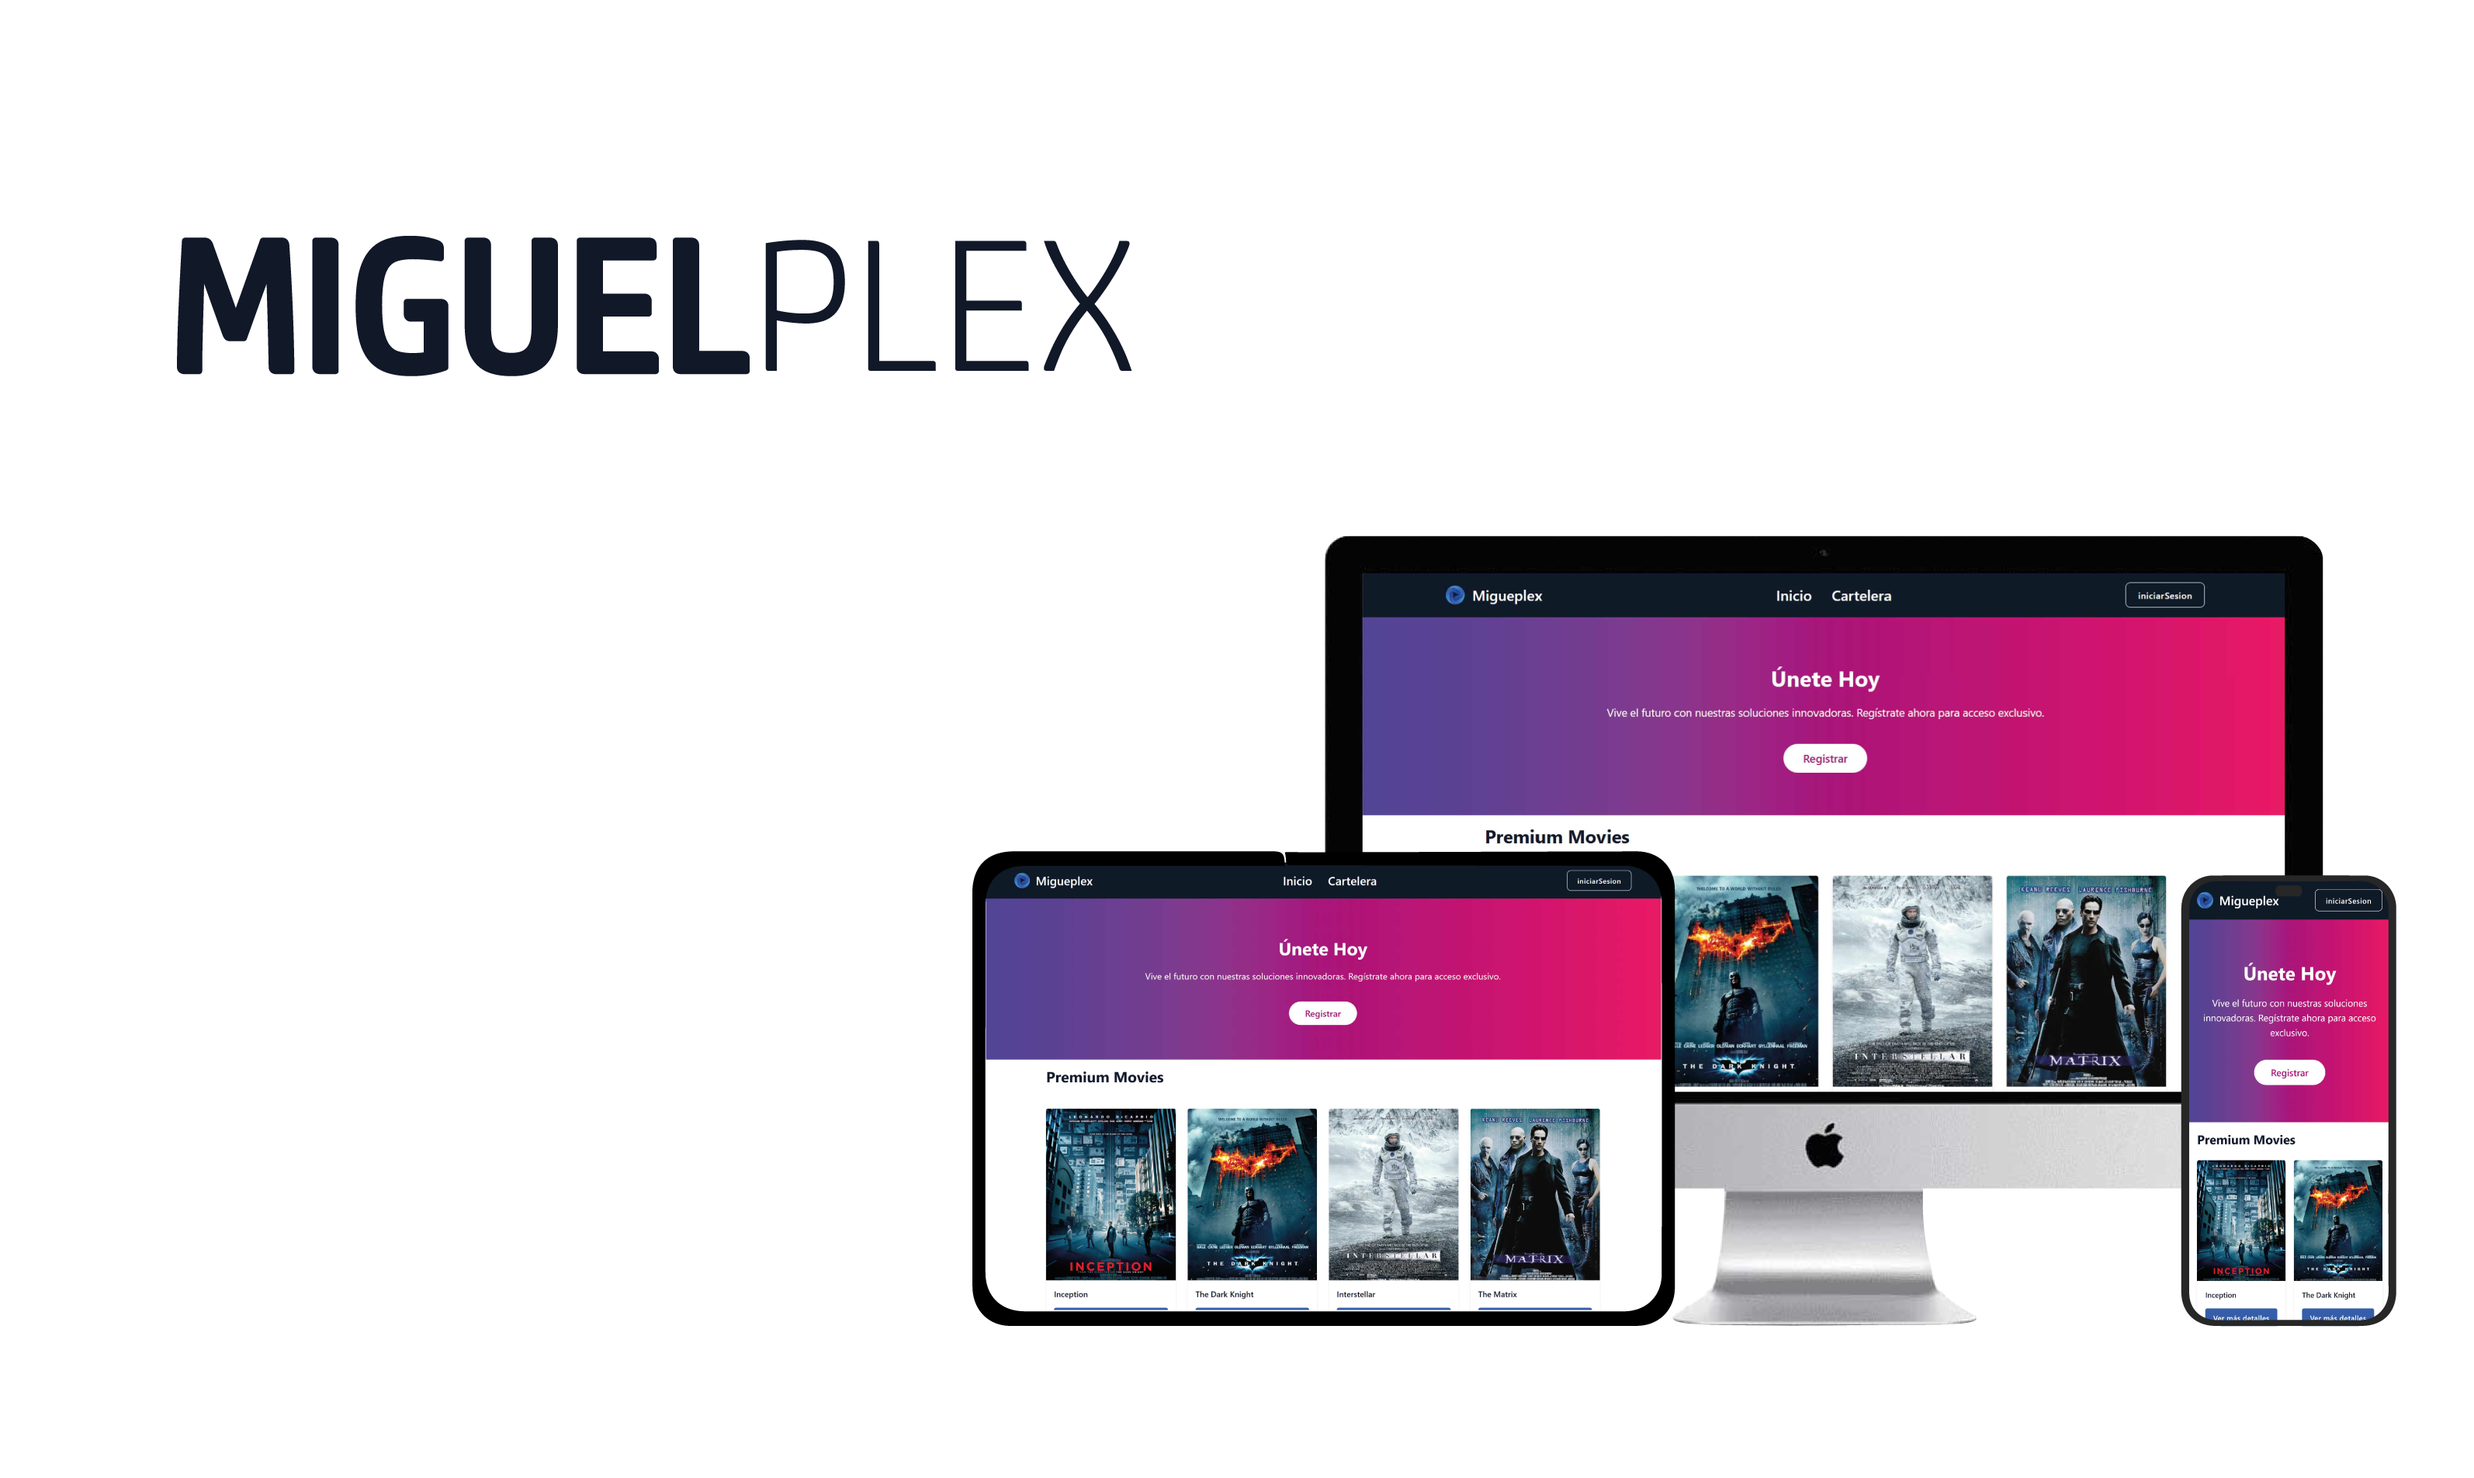
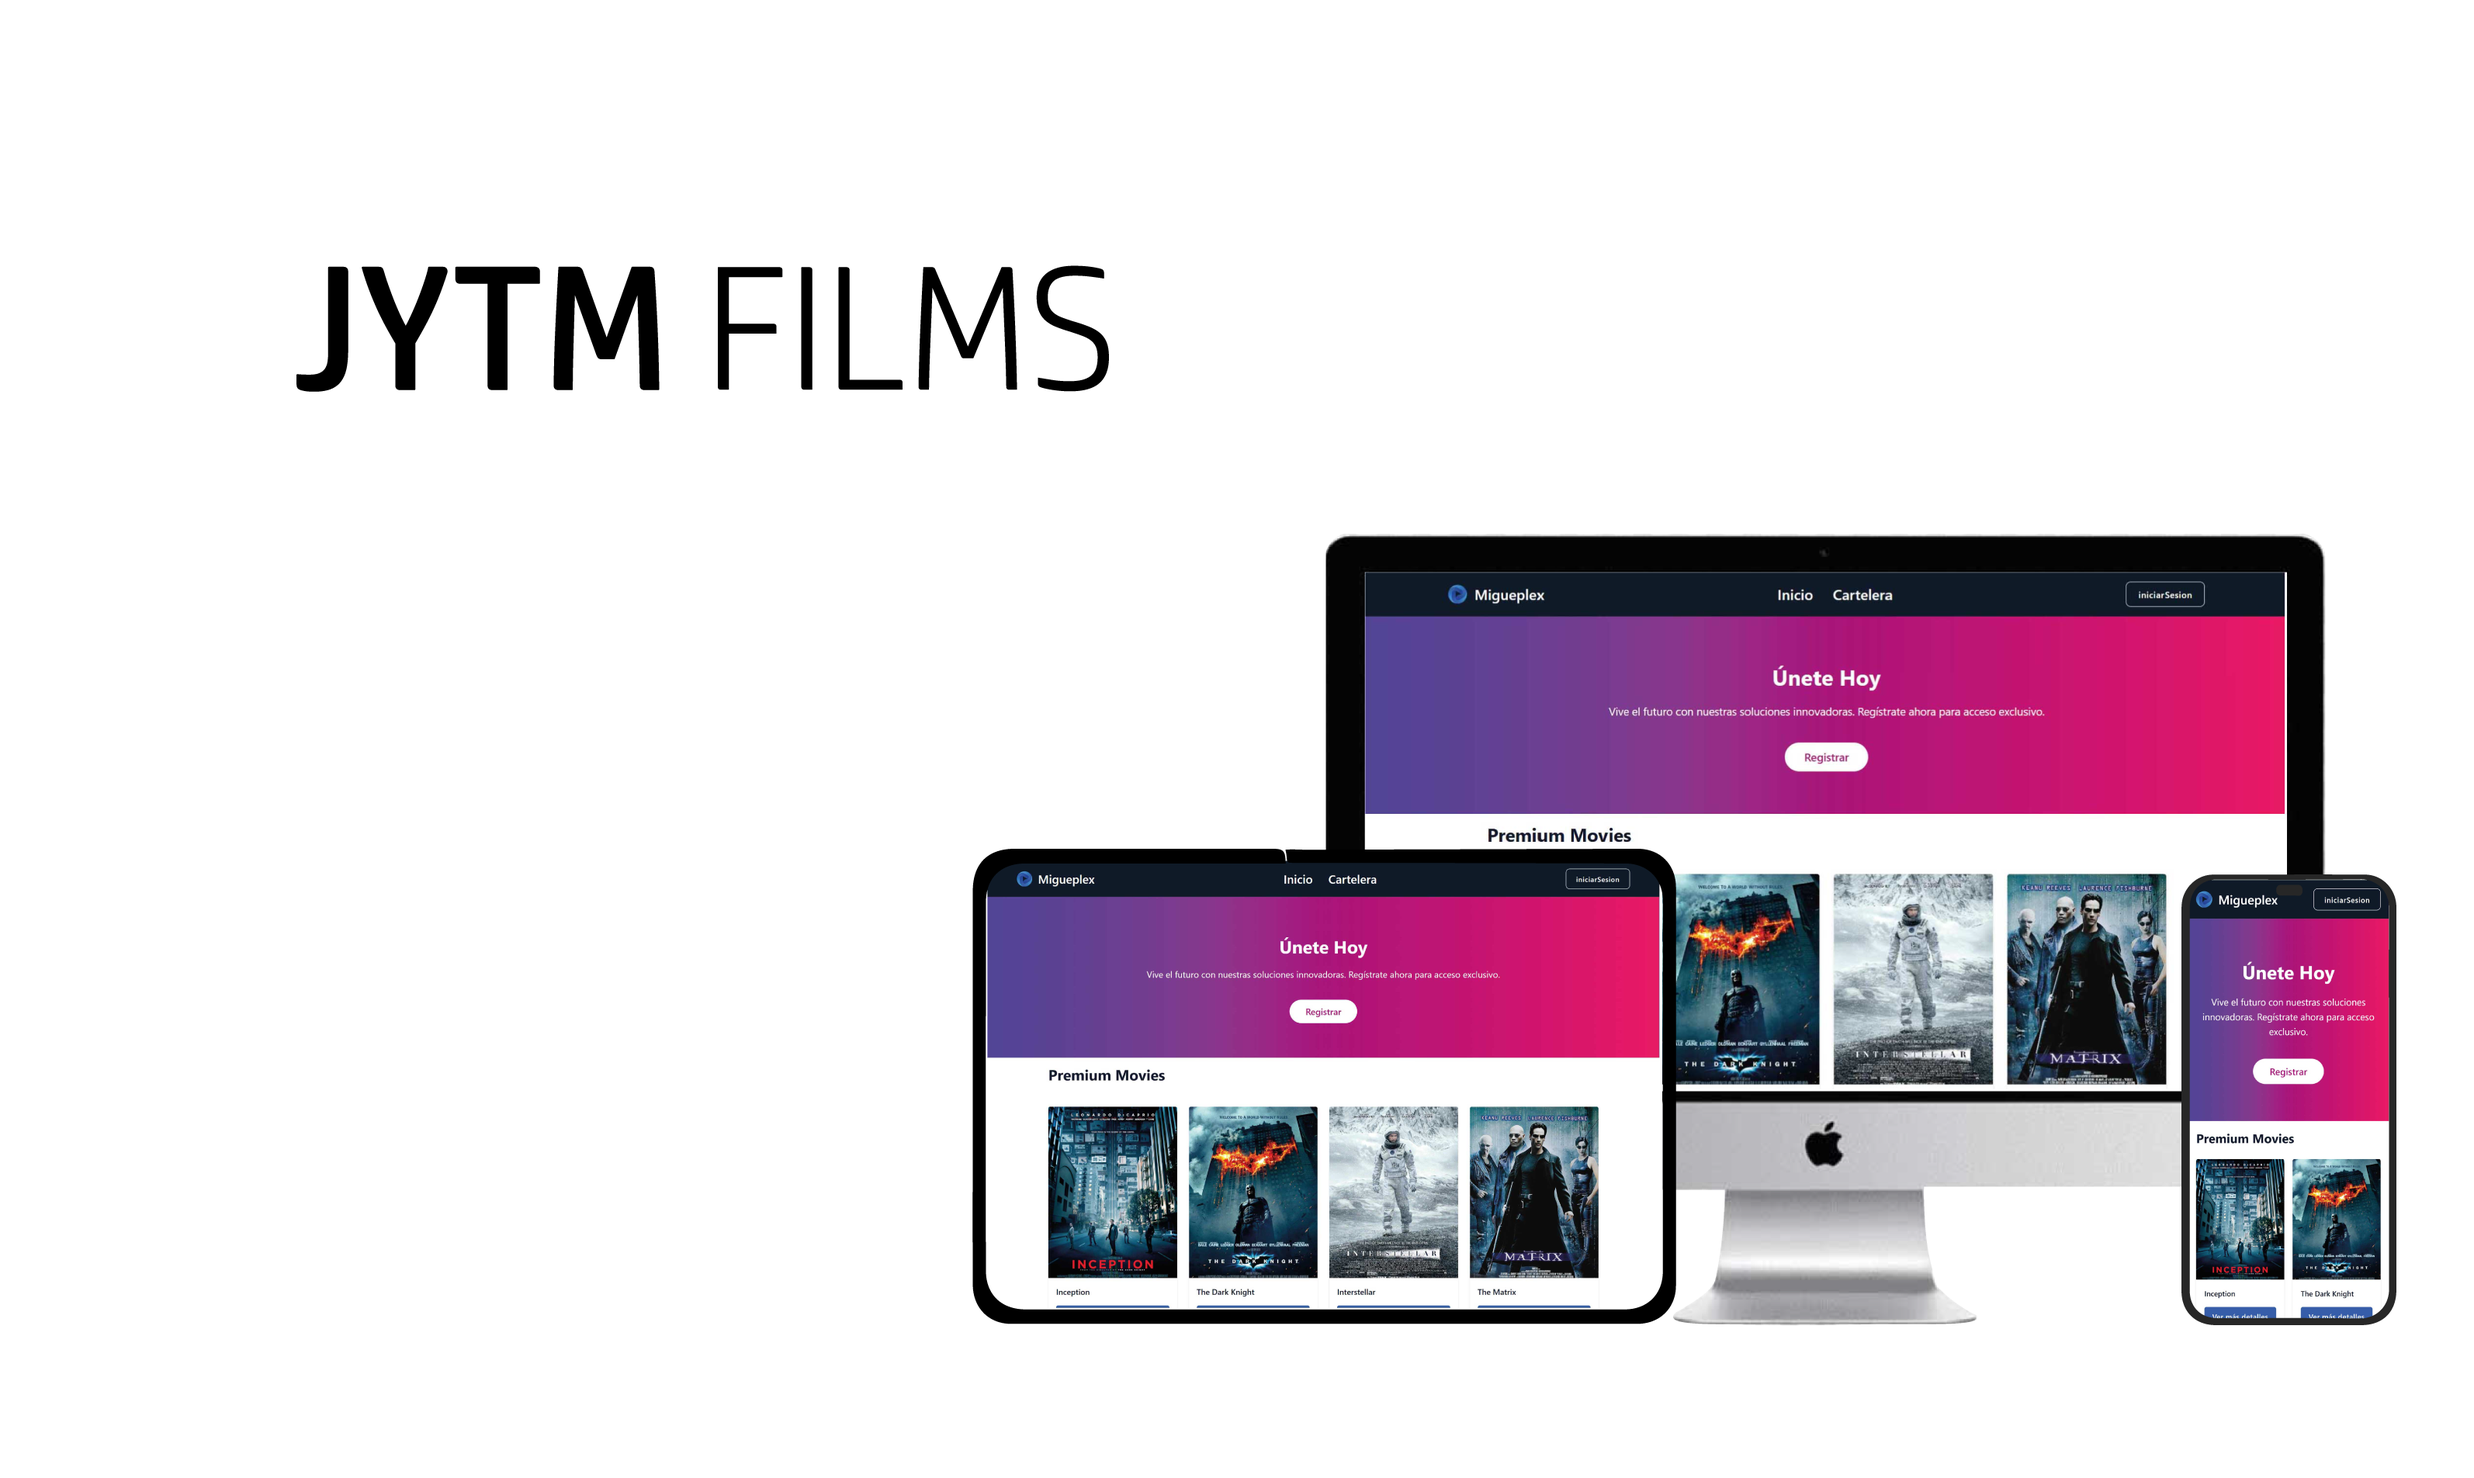
data intento

diff --git a/src/app/component/public/cartelera/cartelera.component.html b/src/app/component/public/cartelera/cartelera.component.html
@@ -1,5 +1,89 @@
 <div class="p-4 mx-auto lg:max-w-6xl md:max-w-4xl">
-    <h2 class="text-2xl sm:text-3xl font-bold text-slate-900 mb-6 sm:mb-12">Premium Movies</h2>
     
+    <h2 class="text-2xl sm:text-3xl font-bold text-slate-900 mb-6 sm:mb-12">Premium Movies</h2>
+    <div class="grid grid-cols-2 sm:grid-cols-3 lg:grid-cols-4 gap-4 sm:gap-6 ">
+      <div class="bg-white flex flex-col rounded overflow-hidden shadow-md cursor-pointer hover:scale-[1.01] transition-all">
+        <div class="w-full">
+          <img routerLink="/content/detalles" src="https://m.media-amazon.com/images/M/MV5BMjAxMzY3NjcxNF5BMl5BanBnXkFtZTcwNTI5OTM0Mw@@._V1_FMjpg_UX1000_.jpg" alt="Movie 1"
+            class="w-full object-cover object-top aspect-[230/307]" />
+        </div>
+        <div class="p-4 flex-1 flex flex-col">
+          <div class="flex-1">
+            <h5 class="text-sm sm:text-base font-semibold text-slate-900 line-clamp-2">Inception</h5>
+          </div>
+      </div>
+    </div >
+      <div class="bg-white flex flex-col rounded overflow-hidden shadow-md cursor-pointer hover:scale-[1.01] transition-all ">
+        <div class="w-full">
+          <img routerLink="/content/detalles" src="https://m.media-amazon.com/images/M/MV5BMTMxNTMwODM0NF5BMl5BanBnXkFtZTcwODAyMTk2Mw@@._V1_FMjpg_UX1000_.jpg" alt="Movie 2"
+            class="w-full object-cover object-top aspect-[230/307]" />
+        </div>
+        <div class="p-4 flex-1 flex flex-col">
+          <div class="flex-1">
+            <h5 class="text-sm sm:text-base font-semibold text-slate-900 line-clamp-2">The Dark Knight</h5>
+          </div>
+          </div>
+      </div>
+  
+      <div class="bg-white flex flex-col rounded overflow-hidden shadow-md cursor-pointer hover:scale-[1.01] transition-all">
+        <div class="w-full">
+          <img routerLink="/content/detalles" src="https://m.media-amazon.com/images/M/MV5BYzdjMDAxZGItMjI2My00ODA1LTlkNzItOWFjMDU5ZDJlYWY3XkEyXkFqcGc@._V1_FMjpg_UX1000_.jpg" alt="Movie 3"
+            class="w-full object-cover object-top aspect-[230/307]" />
+        </div>
+        <div class="p-4 flex-1 flex flex-col">
+          <div class="flex-1">
+            <h5 class="text-sm sm:text-base font-semibold text-slate-900 line-clamp-2">Interstellar</h5>
+          </div>
+          </div>
+      </div>
+  
+      <div class="bg-white flex flex-col rounded overflow-hidden shadow-md cursor-pointer hover:scale-[1.01] transition-all">
+        <div class="w-full">
+          <img routerLink="/content/detalles" src="https://m.media-amazon.com/images/M/MV5BN2NmN2VhMTQtMDNiOS00NDlhLTliMjgtODE2ZTY0ODQyNDRhXkEyXkFqcGc@._V1_FMjpg_UX1000_.jpg" alt="Movie 4"
+            class="w-full object-cover object-top aspect-[230/307]" />
+        </div>
+        <div class="p-4 flex-1 flex flex-col">
+          <div class="flex-1">
+            <h5 class="text-sm sm:text-base font-semibold text-slate-900 line-clamp-2">The Matrix</h5>
+          </div>
+         </div>
+      </div>
+  
+      <div class="bg-white flex flex-col rounded overflow-hidden shadow-md cursor-pointer hover:scale-[1.01] transition-all">
+        <div class="w-full">
+          <img routerLink="/content/detalles" src="https://m.media-amazon.com/images/M/MV5BNGEwYjgwOGQtYjg5ZS00Njc1LTk2ZGEtM2QwZWQ2NjdhZTE5XkEyXkFqcGc@._V1_FMjpg_UX1000_.jpg" alt="Movie 5"
+            class="w-full object-cover object-top aspect-[230/307]" />
+        </div>
+        <div class="p-4 flex-1 flex flex-col">
+          <div class="flex-1">
+            <h5 class="text-sm sm:text-base font-semibold text-slate-900 line-clamp-2">The Godfather</h5>
+          </div>
+          </div>
+      </div>
+  
+      <div class="bg-white flex flex-col rounded overflow-hidden shadow-md cursor-pointer hover:scale-[1.01] transition-all">
+        <div class="w-full">
+          <img routerLink="/content/detalles" src="https://m.media-amazon.com/images/M/MV5BOTgyOGQ1NDItNGU3Ny00MjU3LTg2YWEtNmEyYjBiMjI1Y2M5XkEyXkFqcGc@._V1_.jpg" alt="Movie 6"
+            class="w-full object-cover object-top aspect-[230/307]" />
+        </div>
+        <div class="p-4 flex-1 flex flex-col">
+          <div class="flex-1">
+            <h5 class="text-sm sm:text-base font-semibold text-slate-900 line-clamp-2">Fight Club</h5>
+          </div>
+           </div>
+      </div>
+  
+      <div class="bg-white flex flex-col rounded overflow-hidden shadow-md cursor-pointer hover:scale-[1.01] transition-all">
+        <div class="w-full">
+          <img routerLink="/content/detalles" src="https://m.media-amazon.com/images/M/MV5BY2IzNzMxZjctZjUxZi00YzAxLTk3ZjMtODFjODdhMDU5NDM1XkEyXkFqcGc@._V1_.jpg" alt="Movie 7"
+            class="w-full object-cover object-top aspect-[230/307]" />
+        </div>
+        <div class="p-4 flex-1 flex flex-col">
+          <div class="flex-1">
+            <h5 class="text-sm sm:text-base font-semibold text-slate-900 line-clamp-2">Pulp Fiction</h5>
+          </div>
+          </div>
+      </div>
+    </div>
   </div>
 ```  

diff --git a/src/app/component/public/home/home.component.html b/src/app/component/public/home/home.component.html
@@ -2,7 +2,7 @@
 
 <div class="bg-gradient-to-b from-blue-900 via-blue-800 to-blue-500 px-6 sm:py-20 py-10">
   <div class="max-w-screen-xl mx-auto text-center text-white">
-    <h1 class="text-5xl max-sm:text-3xl font-bold leading-tight mb-6">Bienvenido a Nuestro Servicio Migueplex</h1>
+    <h1 class="text-5xl max-sm:text-3xl font-bold leading-tight mb-6">Bienvenido a Nuestro Servicio JYTM Films</h1>
     <p class="text-lg mb-12">Experimenta la excelencia como nunca antes con nuestros productos y servicios exclusivos.</p>
     <a routerLink="/content/media" type="button" class="bg-blue-600 text-white text-lg font-medium tracking-wide px-8 py-2.5 rounded-full transition duration-300 ease-in-out shadow-lg hover:shadow-xl">Ver Cartelera</a>
   </div>

diff --git a/src/app/component/public/media/media.component.html b/src/app/component/public/media/media.component.html
@@ -1,5 +1,17 @@
 <app-head></app-head>
-
+<div class="bg-gradient-to-r from-blue-700 to-[#B06AB3] px-6 py-12">
+    <div class="container mx-auto flex flex-col justify-center items-center text-center">
+      <h2 class="text-white sm:text-4xl text-3xl font-bold mb-6">Descubre Nuestros Estrenos</h2>
+      <p class="text-white text-base text-center mb-12">
+        ¡Compra ahora y disfruta de descuentos exclusivos!
+      </p>
+  
+      <button type="button" routerLink="/auth/register" class="bg-white text-[15px] text-blue-600 font-semibold py-3 px-6 rounded-lg hover:bg-slate-100">
+        Registrarse
+      </button>
+    </div>
+  </div>
+  
 <app-cartelera></app-cartelera>
 <app-descuento></app-descuento>
 <app-footer></app-footer>

diff --git a/src/environments/environment.development.ts b/src/environments/environment.development.ts
@@ -1,5 +1,5 @@
 export const environment = {
     production: false,
-    SUPABASE_URL:'https://wmbfbeoyofzggwpiphvz.supabase.co',
-    SUPABASE_KEY:'eyJhbGciOiJIUzI1NiIsInR5cCI6IkpXVCJ9.eyJpc3MiOiJzdXBhYmFzZSIsInJlZiI6IndtYmZiZW95b2Z6Z2d3cGlwaHZ6Iiwicm9sZSI6ImFub24iLCJpYXQiOjE3NDMwMTAwNzEsImV4cCI6MjA1ODU4NjA3MX0.lKJpEB50weaaL3ey5J-5tBRvWVqQjYjszMST7ZAqorU',
+    SUPABASE_URL:'https://ndvrjeuktobetztrcfgp.supabase.co',
+    SUPABASE_KEY:'eyJhbGciOiJIUzI1NiIsInR5cCI6IkpXVCJ9.eyJpc3MiOiJzdXBhYmFzZSIsInJlZiI6Im5kdnJqZXVrdG9iZXR6dHJjZmdwIiwicm9sZSI6ImFub24iLCJpYXQiOjE3NDI5OTQyNDQsImV4cCI6MjA1ODU3MDI0NH0.OMUdCA9L0Pdki5HtYSefBwFSj2dtEAaYhWM4irbHqFg',
 };

diff --git a/src/environments/environment.ts b/src/environments/environment.ts
@@ -1,5 +1,5 @@
 export const environment = {
     production: true,
-    SUPABASE_URL:'https://wmbfbeoyofzggwpiphvz.supabase.co',
-    SUPABASE_KEY:'eyJhbGciOiJIUzI1NiIsInR5cCI6IkpXVCJ9.eyJpc3MiOiJzdXBhYmFzZSIsInJlZiI6IndtYmZiZW95b2Z6Z2d3cGlwaHZ6Iiwicm9sZSI6ImFub24iLCJpYXQiOjE3NDMwMTAwNzEsImV4cCI6MjA1ODU4NjA3MX0.lKJpEB50weaaL3ey5J-5tBRvWVqQjYjszMST7ZAqorU',
+    SUPABASE_URL:'https://ndvrjeuktobetztrcfgp.supabase.co',
+    SUPABASE_KEY:'eyJhbGciOiJIUzI1NiIsInR5cCI6IkpXVCJ9.eyJpc3MiOiJzdXBhYmFzZSIsInJlZiI6Im5kdnJqZXVrdG9iZXR6dHJjZmdwIiwicm9sZSI6ImFub24iLCJpYXQiOjE3NDI5OTQyNDQsImV4cCI6MjA1ODU3MDI0NH0.OMUdCA9L0Pdki5HtYSefBwFSj2dtEAaYhWM4irbHqFg',
 };

diff --git a/src/app/data/data-access/data-access.service.ts b/src/app/data/data-access/data-access.service.ts
@@ -1,0 +1,21 @@
+import { inject, Injectable, signal } from "@angular/core";
+import { AuthService } from "../../auth/data-access/auth.service";
+import { AuthStateService } from "../../data-access/auth-state.service";
+
+interface NoteState{
+    notes: [any];
+    loading: boolean;
+    error: boolean;
+}
+
+@Injectable({ providedIn: 'root'})
+    export class NotesService {
+        private _supabaseClient = inject(AuthStateService).supabaseClient;
+
+        private _state = signal<NoteState>({
+            notes:[],
+            loading: false,
+            error: false,
+        });
+    
+    }

diff --git a/src/app/component/public/media/media.component.ts b/src/app/component/public/media/media.component.ts
@@ -5,11 +5,12 @@ import { CarteleraComponent } from '../cartelera/cartelera.component';
 import { DescuentoComponent } from '../descuento/descuento.component';
 
 import { AuthStateService } from '../../../data-access/auth-state.service';
+import { RouterLink } from '@angular/router';
 
 
 @Component({
   selector: 'app-media',
-  imports: [HeadComponent,FooterComponent,CarteleraComponent,DescuentoComponent],
+  imports: [HeadComponent,FooterComponent,CarteleraComponent,DescuentoComponent,RouterLink],
   templateUrl: './media.component.html',
   styleUrl: './media.component.css'
 })

diff --git a/src/app/auth/data-access/auth.service.ts b/src/app/auth/data-access/auth.service.ts
@@ -1,7 +1,8 @@
 import { inject, Injectable } from '@angular/core';
 import { AuthStateService } from '../../data-access/auth-state.service';
-import { SignUpWithPasswordCredentials } from '@supabase/supabase-js';
+import { SignUpWithPasswordCredentials} from '@supabase/supabase-js';
 import { bindCallback } from 'rxjs';
+
 
 @Injectable({
   providedIn: 'root',

diff --git a/src/app/component/head/head.component.html b/src/app/component/head/head.component.html
@@ -4,6 +4,7 @@
       <img src="https://flowbite.com/docs/images/logo.svg" class="h-8"/>
       <span class="self-center text-2xl font-semibold whitespace-nowrap dark:text-white">J&T Films</span>
   </a>
+
   <div class="flex md:order-2">
     <div class="relative hidden md:block" >
       <div class="flex flex-col justify-center ">

diff --git a/src/app/component/public/cartelera/cartelera.component.ts b/src/app/component/public/cartelera/cartelera.component.ts
@@ -3,7 +3,7 @@ import { RouterLink } from '@angular/router';
 
 @Component({
   selector: 'app-cartelera',
-  imports: [],
+  imports: [RouterLink],
   templateUrl: './cartelera.component.html',
   styleUrl: './cartelera.component.css'
 })
